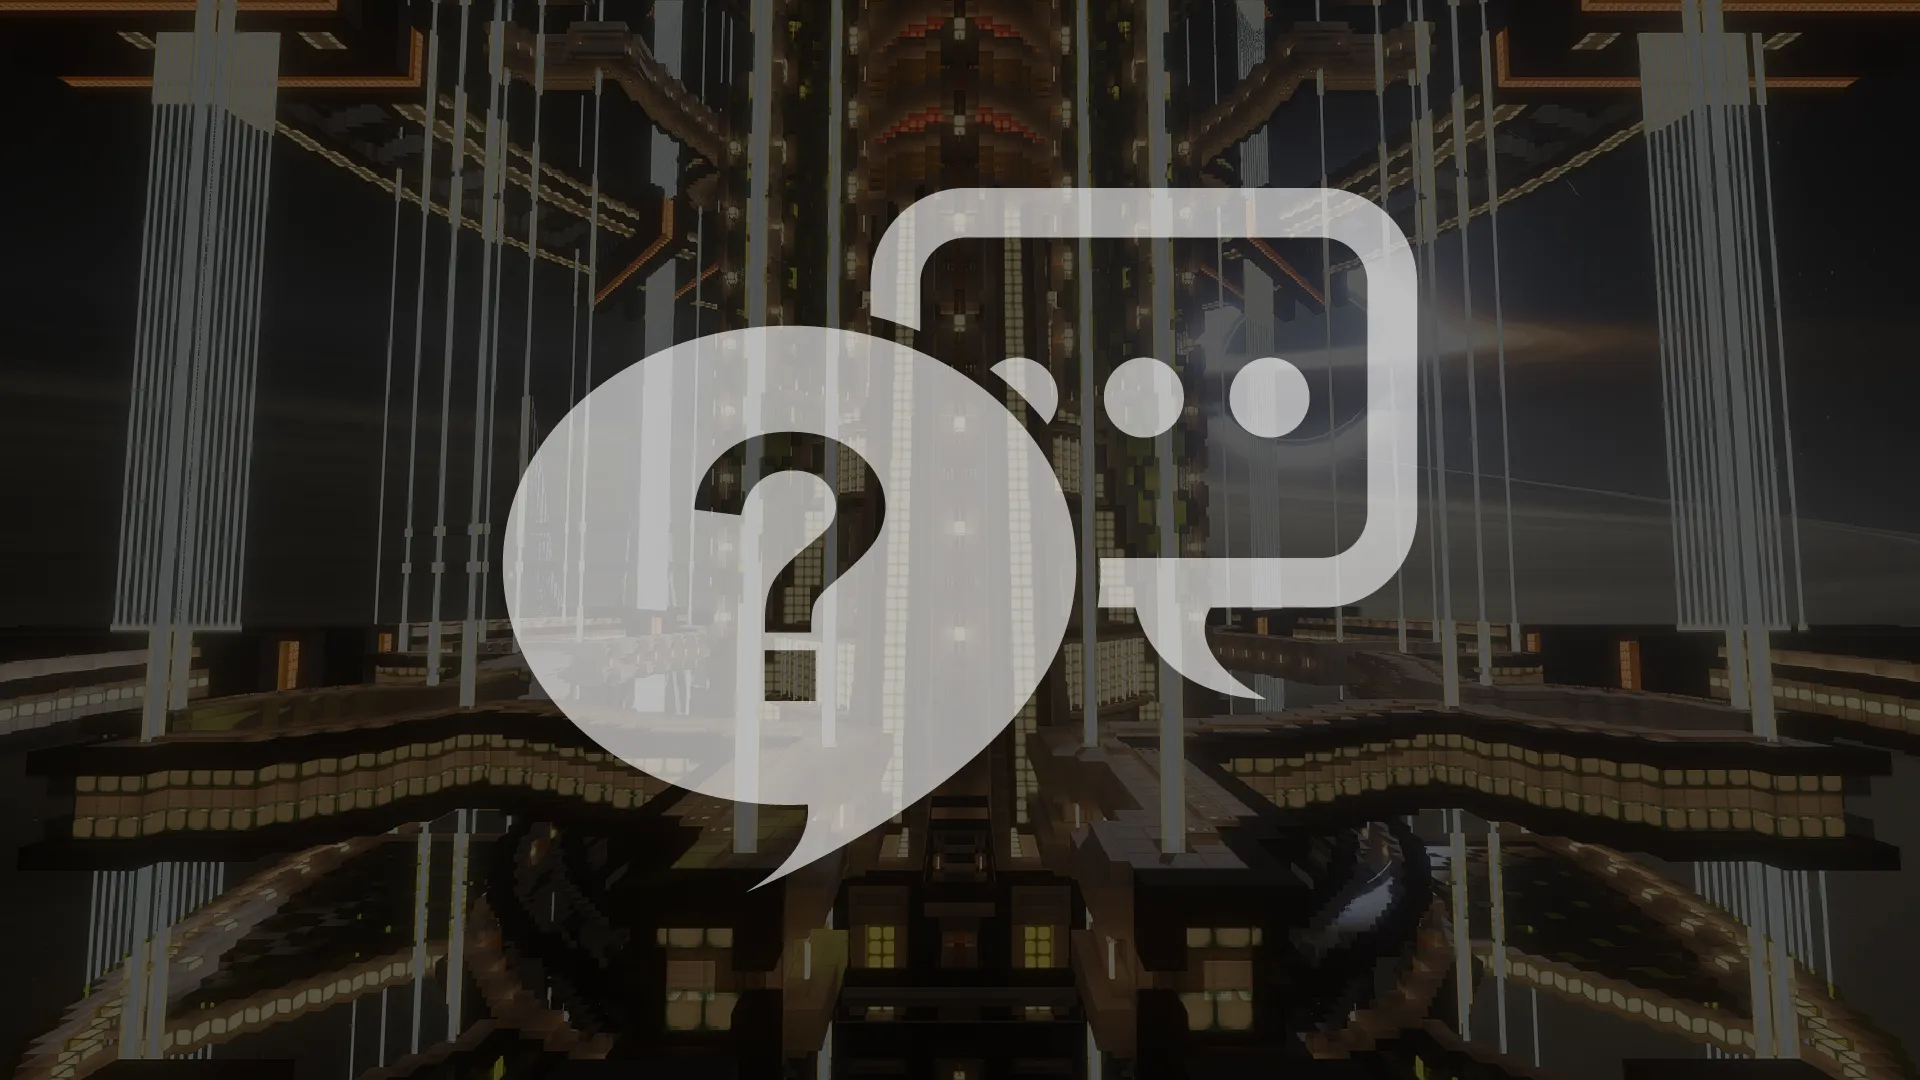
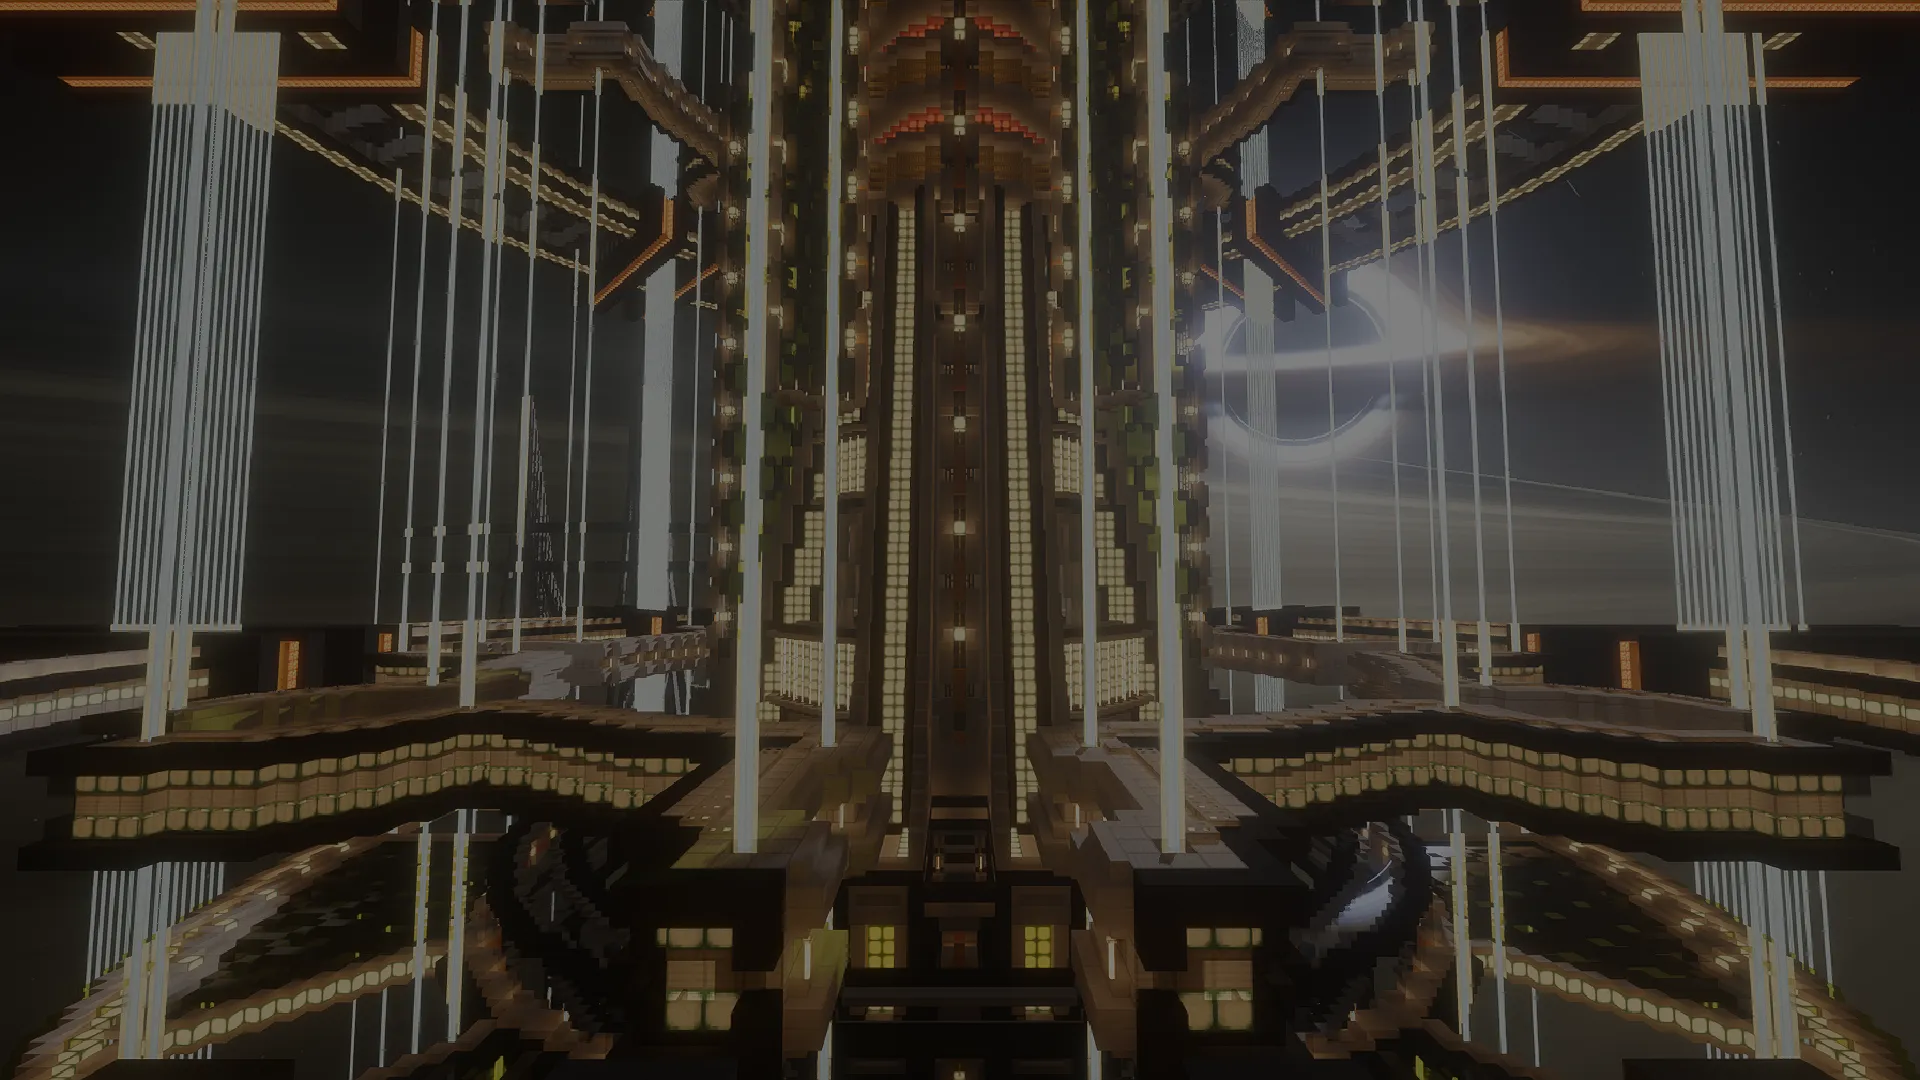
docs: 更新文档内容与联系方式
- 更新首页和QA文档，添加QQ群和语音交流频道联系方式
- 修改README中的服务器名称和官网链接
- 在teekConfig中添加主题和版权信息配置
- 更新封面图片

diff --git a/docs/.vitepress/teekConfig.ts b/docs/.vitepress/teekConfig.ts
@@ -10,6 +10,13 @@ export const teekConfig = defineTeekConfig({
     hideBanner: true
   },
   footerInfo: {
+    theme: {
+      name: `Theme By Teek@${version}`,
+    },
+    copyright: {
+      createYear: 2020,
+      suffix: "Mcoo 墨客小筑",
+    },
     customHtml: "<span id=\"runtime\"></span>",
     topMessage: []
   },

diff --git a/README.md b/README.md
@@ -5,11 +5,11 @@
 </p>
 
 <p align="center">
-  <strong>Minecraft 服务器官方网站</strong>
+  <strong>Mcoo 墨客小筑 官方网站</strong>
 </p>
 
 <p align="center">
-  <a href="https://mcoo.top">🌐 访问官网</a>
+  <a href="https://www.mcoo.top">🌐 访问官网</a>
   ·
   <a href="https://github.com/GeminiAlpha-1/McooServers">🐙 GitHub</a>
 </p>
@@ -20,7 +20,7 @@
 
 Mcoo 墨客小筑是一个基于 **Minecraft Java版** 的原版生存服务器，采用 Fabric 1.21 驱动。
 
-我们的理念是保持纯净的游戏体验，仅使用不改变原版机制的优化模组，让每一位玩家都能享受最原汁原味的 Minecraft 乐趣。
+我们的理念是保持《纯净》的游戏体验，仅使用不改变原版机制的优化模组，让每一位玩家都能享受最原汁原味的 Minecraft 乐趣。
 
 ### 服务器特色
 
@@ -167,6 +167,8 @@ Mcoo 服务器拥有丰富的徽章系统，记录着玩家们的荣耀时刻。
 - 💿 **银河唱片机** - 参与服务器唱片全收集计划
 - 🌌 **云天明的小宇宙** - 参与青铜尊号中继站建设
 - 🎃 **奇怪的南瓜派** - 万圣夜活动
+
+更多徽章正在持续更新中~
 
 ---
 

diff --git a/docs/index.md b/docs/index.md
@@ -35,6 +35,26 @@ features:
 
 `Mcoo 墨客小筑` 采用 `Teek` 主题，您可以在右上角 <TkIcon :icon="readingIcon" :size="20" /> 图标处调整搭配网站的主题至您喜欢的风格。
 
+以下为我们日常使用的联系方式，欢迎加入与我们交流！
+
+若是对服务器很感兴趣，可以 @交流群内的管理员哦~
+
+::: shareCard
+```yaml
+- name: QQ
+  desc: 加入QQ群，与我们交流、分享经验
+  link: https://qm.qq.com/q/T7QTA988U2
+  bgColor: '#c7effcff'
+  textColor: '#242A38'
+
+- name: OOPZ
+  desc: 这是我们常用的语音交流频道
+  link: https://oopz.cn/i/Bh6ewS
+  bgColor: '#DFEEE7'
+  textColor: '#2A3344'
+```
+:::
+
 <script setup lang="ts">
 import { onMounted } from "vue";
 import { useData } from "vitepress";
